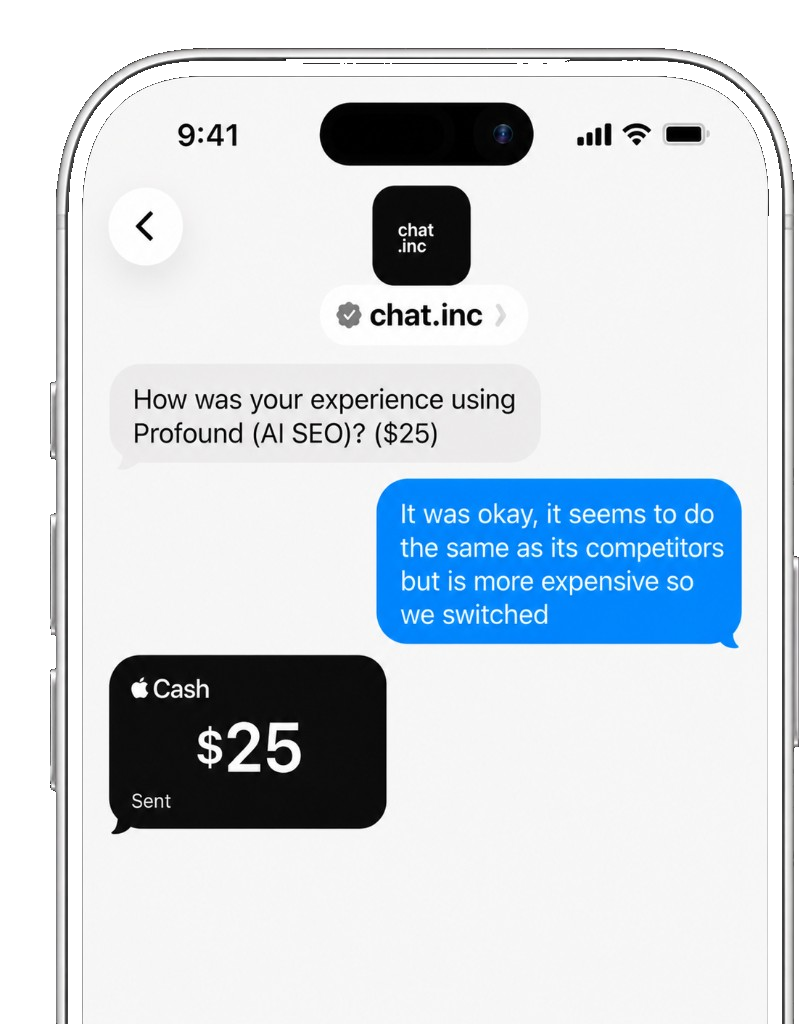
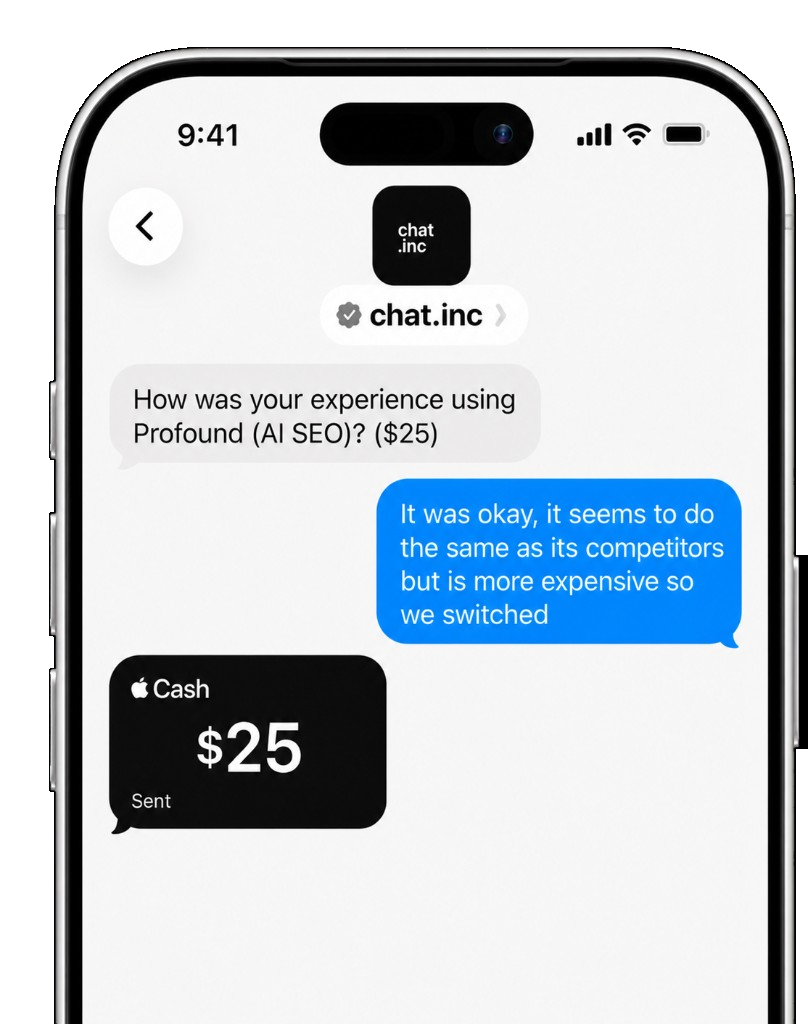
Preserve Dynamic Island and Apple Cash when removing outer black.

Changed region(s): [[0.0619, 0.0312, 1.0, 1.0]]

diff --git a/app/page.tsx b/app/page.tsx
@@ -30,7 +30,7 @@ export default function Home() {
 
           <img
             className="phone"
-            src="/phone.png?v=5"
+            src="/phone.png?v=6"
             alt="chat.inc iMessage conversation paying $25 for an expert answer"
             width={808}
             height={1024}
